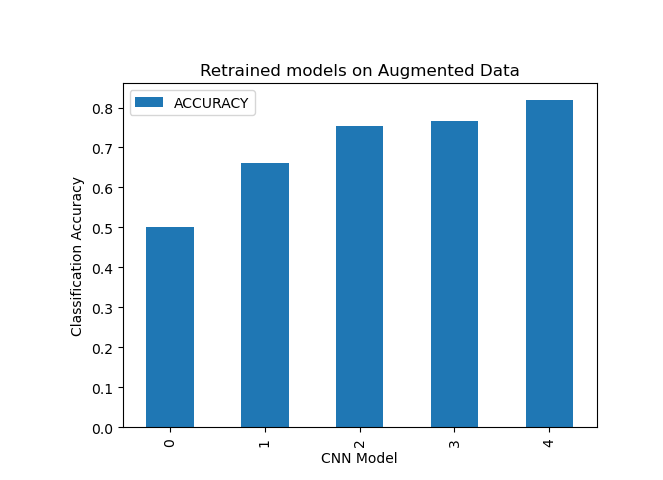
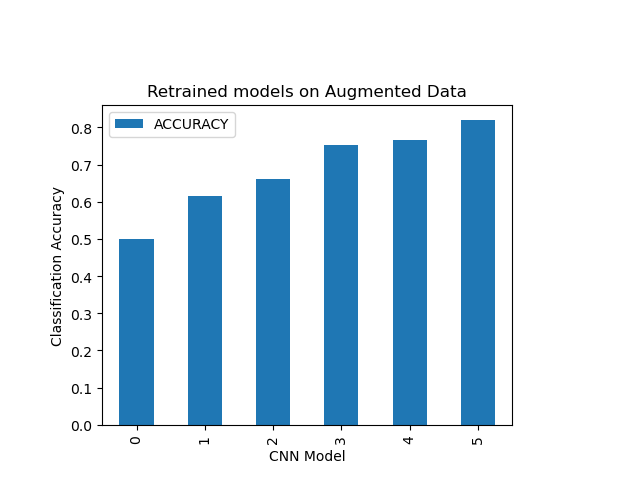
plots

Changed region(s): [[0.0625, 0.125, 0.9062, 0.9688]]

diff --git a/scripts/main_augmented.py b/scripts/main_augmented.py
@@ -1,5 +1,5 @@
 #########################################################
-# DES: Run best perfroming CNNs (3/5 of them - 2 were too large to upload to Github).
+# DES: Run best perfroming CNNs (4/6 of them - 2 were too large to upload to Github).
 #      Results still added from CSV file
 # BY: Tiernan Barry
 #########################################################
@@ -29,9 +29,10 @@ working_dir = set_wd.set_correct_working_dir()
 model1 = tf.keras.models.load_model(r'best_models\cnn_5lyr_rmsprpmean_squared_error0.001')
 model2 = tf.keras.models.load_model(r'best_models\cnn_5lyr_rmsprpmean_squared_logarithmic_error0.001')
 model3 = tf.keras.models.load_model(r'best_models\Aug_LeNet_mean_squared_error_0.01')
+model4 = tf.keras.models.load_model(r'best_models\Aug_LeNet_binary_crossentropy_0.001')
 
 model_list1 = [[model1, "cnn_5lyr_rmsprpmean_squared_error0.001"], [model2, "cnn_5lyr_rmsprpmean_squared_logarithmic_error0.001"]]
-model_list2 = [[model3, "Aug_LeNet_mean_squared_error_0.01"]]
+model_list2 = [[model3, "Aug_LeNet_mean_squared_error_0.01"], [model4, "Aug_LeNet_binary_crossentropy_0.001"]]
 
 def get_validation_results(model_list, batch_size, target_size):
 
